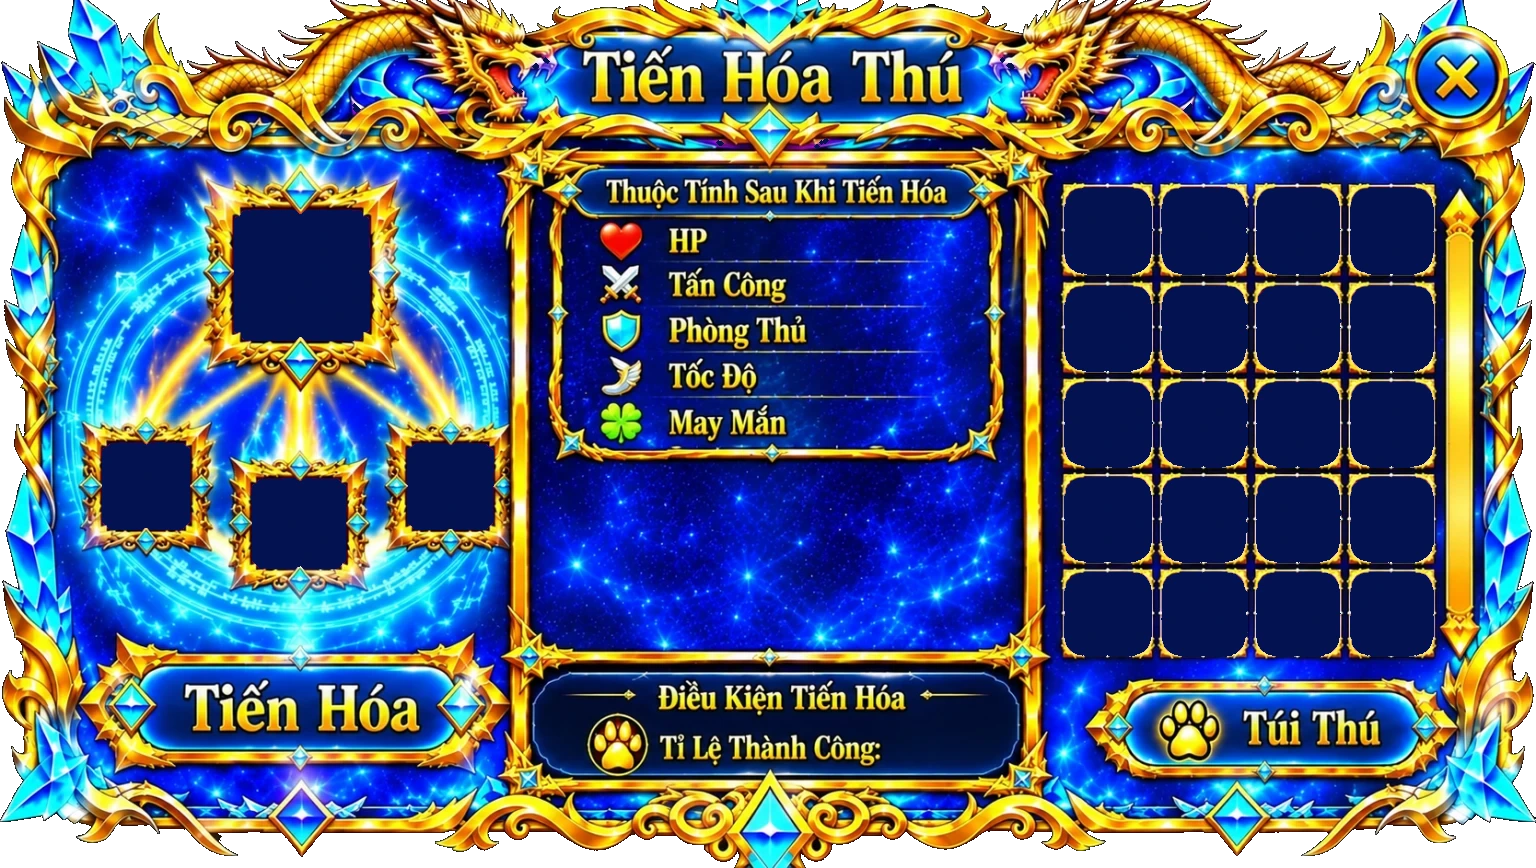
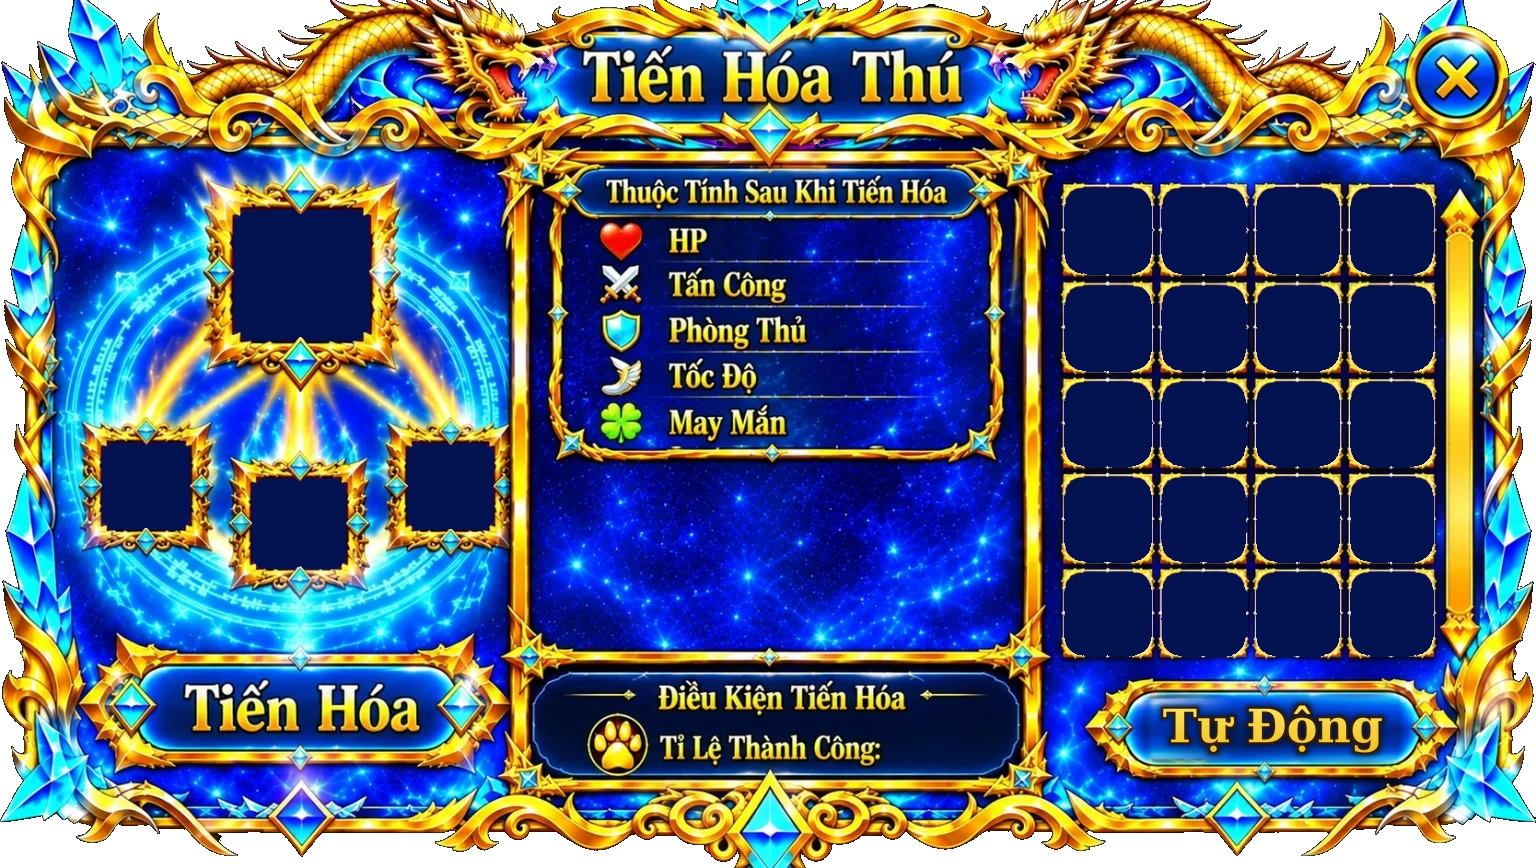
Khung Tiến Hóa: đổi nút Túi Thú thành Tự Động (logic làm sau)

Changed region(s): [[0.75, 0.7776, 0.9062, 0.9021]]

diff --git a/game-moi/72-khung-ren-cuong-hoa.js b/game-moi/72-khung-ren-cuong-hoa.js
@@ -12,8 +12,8 @@ var D={
    main:[[278,233,149,136]],
    ring:[[129,446,92,92],[475,446,93,92],[297,561,109,104]],
    bag:(function(){var a=[],X=[1099,1219,1338,1456],Y=[239,345,449,552,656];Y.forEach(function(y){X.forEach(function(x){a.push([x,y,96,84]);});});return a;})()}},
- th:{img:'game-moi/khung-tien-hoa.webp?v=1',w:1536,h:868,x:{x:1405,y:26,s:104},
-  btn:[{x:85,y:640,w:420,h:125,t:'Tiến Hóa'},{x:1090,y:680,w:365,h:100,t:'Túi Thú'}],
+ th:{img:'game-moi/khung-tien-hoa.webp?v=2',w:1536,h:868,x:{x:1405,y:26,s:104},
+  btn:[{x:85,y:640,w:420,h:125,t:'Tiến Hóa'},{x:1090,y:680,w:365,h:100,t:'Tự Động'}],
   sl:{
    main:[[236,212,132,127]],
    ring:[[104,444,84,84],[409,445,83,83],[253,480,91,87]],
